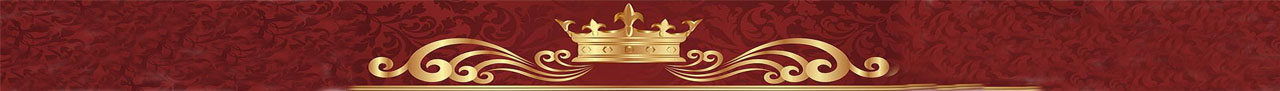
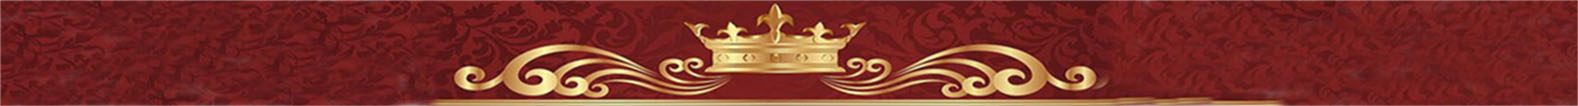
working on terminal component

diff --git a/rajshree_single_angular/src/app/pages/terminal/terminal.component.html b/rajshree_single_angular/src/app/pages/terminal/terminal.component.html
@@ -49,8 +49,8 @@
 
         <div fxFlex="30">
           <div class="text-center" style="">
-            <div style="padding-top: 30px;text-align: center; background-repeat: no-repeat;min-height: 100px;font-weight: bold; ">
-              <div class="mt-3" >Game Id:</div>
+            <div style="padding-top: 55px;text-align: center; background-repeat: no-repeat;min-height: 100px;font-weight: bold; ">
+
                 <ngx-wheel
                 #wheel
                 width='300'
@@ -67,11 +67,11 @@
                 [idToLandOn]='idToLandOn'
                 (onSpinStart)='before()'
                 (onSpinComplete)='after()'
-                style="padding-left: 7%; padding-top: 10px; text-align: ;"
+                style="padding-left: %; padding-top: 14px; text-align: ;"
 
               >
             </ngx-wheel>
-            <div class="mt-3" style="text-align: center; ">
+            <div class="mt-5" style="text-align: center; ">
               <div class="d-flex" style="">
                 <div class="col-4"></div>
                 <div class="" style="border: 5px solid white; width: 200px;border-style: double; border-radius: 10px;">

diff --git a/rajshree_single_angular/src/app/pages/header/header.component.html b/rajshree_single_angular/src/app/pages/header/header.component.html
@@ -210,7 +210,7 @@
 
 
   <!--For Terminal-->
-  <mat-toolbar color="golden" style="background-image: url('/assets/images/terminal-header.jpg');" *ngIf="isAuthenticated && isTerminal">
+  <mat-toolbar color="golden" style="background-image: url('/assets/images/terminal-header.jpg');background-position: center top;width: 100%;max-width: 1366px; position: relative; background-repeat: no-repeat;" *ngIf="isAuthenticated && isTerminal">
 <!--    <p style="font-size: 90px;">hi{{deviceXs}}</p>-->
 <!--    for desktop view-->
     <mat-toolbar-row fxLayoutAlign="space-between center" *ngIf="!deviceXs">
